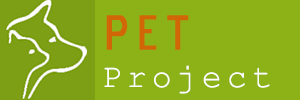
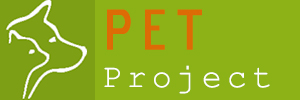
Install, CSS, image changes
Fixed install -- error in INSERT into Users table, updated CSS, updated
logo image

Changed region(s): [[0.33, 0.09, 0.69, 0.51]]

diff --git a/includes/styles/styles.css b/includes/styles/styles.css
@@ -133,7 +133,7 @@ form {
 }
 
 .admin a:hover {
-	color: #d16607;
+	color: #dd6b05;
 	text-decoration: none;
 }
 
@@ -206,12 +206,12 @@ I've done a lot of changes, but NOTHING is breaking or registering -- must be so
 	width: 21%;
 	display: table-cell;
 	vertical-align: top;
-	background-color: #ccbd7e;
+	background-color: #967f56;
 	padding: 2%;
 }
 
 .sidebar p {
-	background-color: #ccbd7e;
+	background-color: #967f56;
 	
 }
 

diff --git a/install.php b/install.php
@@ -1,5 +1,7 @@
 <?php
 
+include 'includes/constant/config.inc.php'; 
+
     function isTableEmpty($con, $table)
     {
         echo "Determine if empty";
@@ -110,5 +112,40 @@
     } 
     echo "<br/>Database Creation Sucessful<br/> ";
     
+	if(isTableEmpty($con,'Users'))
+	{
+		$sql ="insert into Users (
+		FirstName,
+		LastName,
+		Email,
+		Password,
+		md5_id,
+		UserName,
+		Address1,
+		Address2,
+		City,
+		State,
+		ZipCode,
+		Bio,
+		ProfileImagePath)
+		values(
+		'Amy',
+		'Kern',
+		'akern@iastate.edu',
+		'abc123',
+		'lkj',
+		'akern',
+		'6680 123rd Lane',
+		'lk',
+		'Indianola',
+		'IA',
+		'50125',
+		'something about me, a clob',
+		'dummy.jpg');";
+		if($con->query($sql) === FALSE)
+		{
+			echo "<br/> Error populating users table <br/>" . $con->error;
+		}
+	}
     $con->close();
 ?>

diff --git a/includes/constant/config.inc.php b/includes/constant/config.inc.php
@@ -9,7 +9,7 @@ define ("DB_PASS","hci573"); // set database password
 define ("DB_NAME","petproject"); // set database name
 
 //tables
-define ("USERS", "users");
+define ("USERS", "Users");
 define ("USER_ROLE", "UserRole");
 define ("USER_PETS", "UserPets");
 define ("MATCHUPS", "MatchUps");
